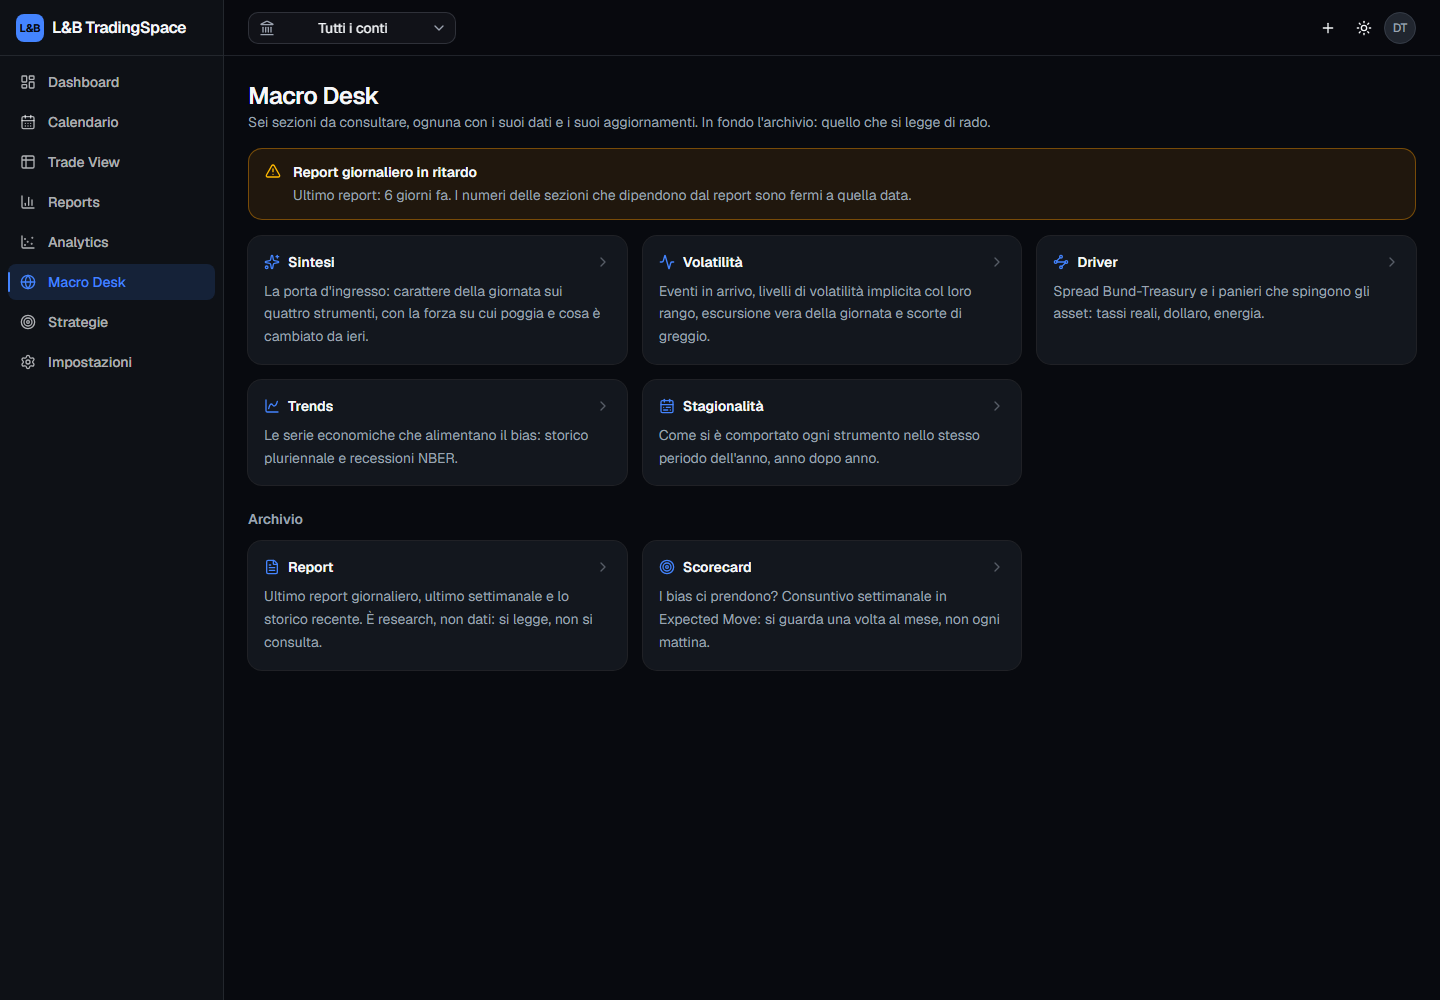
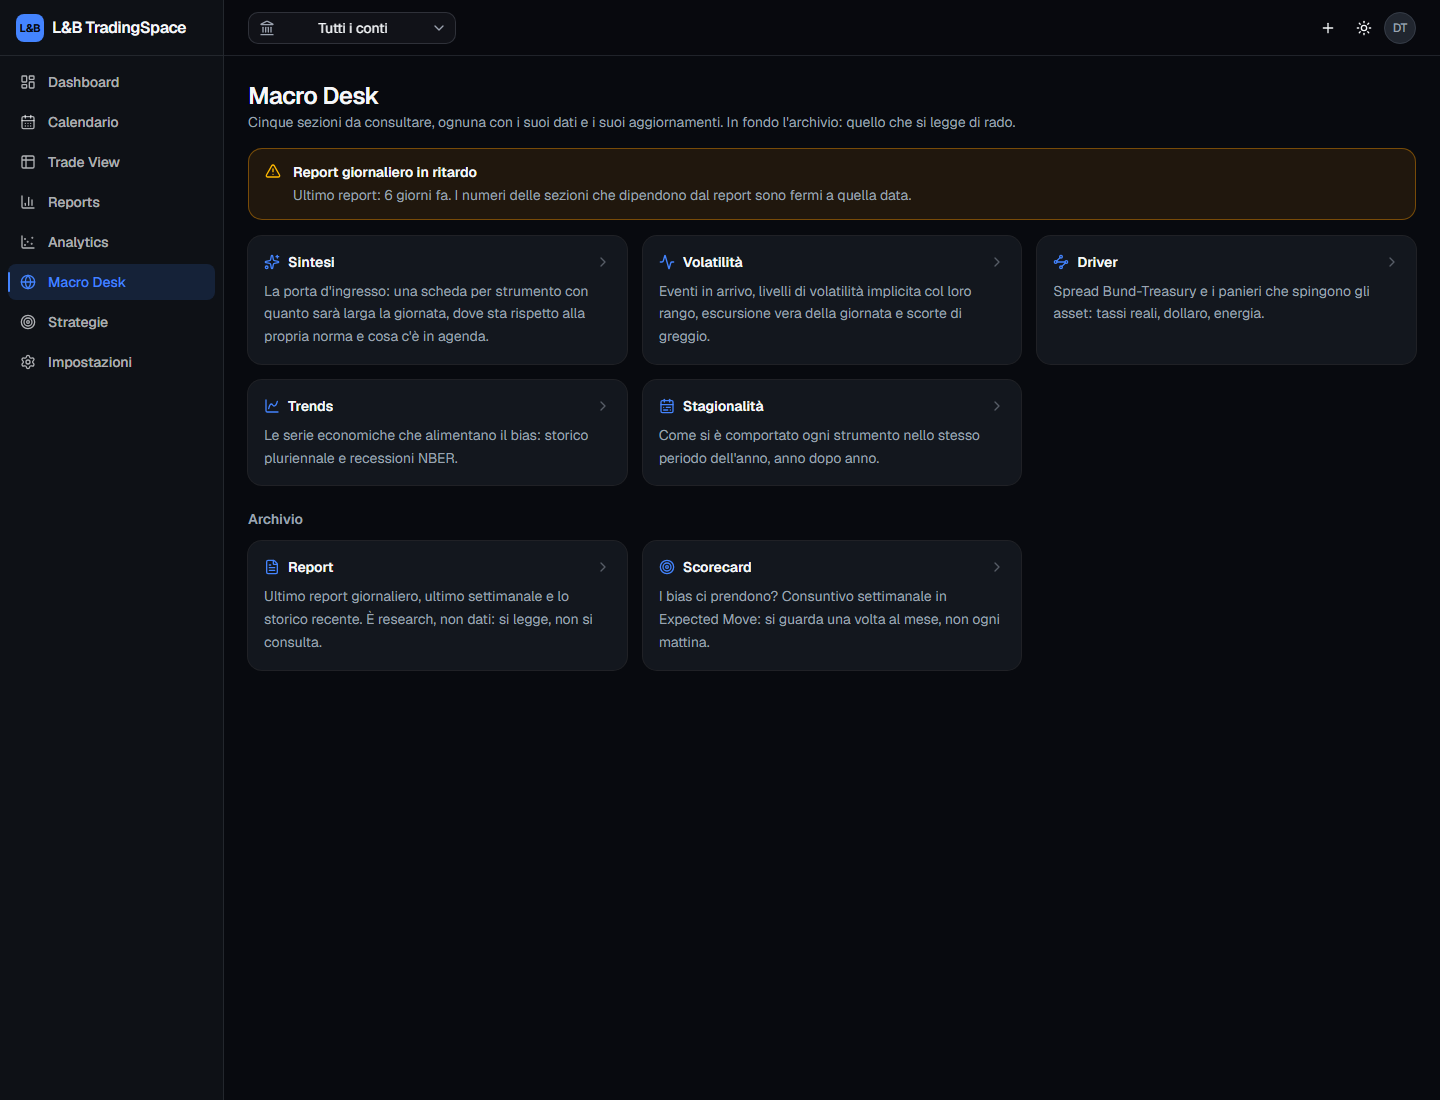
Chiusura: indice a cinque sezioni, riferimenti allineati, PROGRESS
Terzo e ultimo blocco. Nessuna logica nuova: si allinea quello che la
rimozione di Posizionamento ha lasciato indietro.

INDICE E BARRA. `MACRO_DESK_SECTIONS` è fonte unica per entrambi, quindi la
tessera e la voce di navigazione erano già sparite col blocco precedente.
Restavano i CONTEGGI scritti a mano: il sottotitolo dell'indice diceva «Sei
sezioni da consultare» e i commenti parlavano di sei quotidiane. Ora cinque.

DESCRIZIONE DELLA SINTESI, riscritta perché era ferma a tre cose che non
esistono più: «carattere della giornata», «la forza su cui poggia» e «cosa è
cambiato da ieri» erano le colonne della tabella unica, sostituite dalle
schede il 26/08. Adesso dice quello che la pagina fa davvero.

DUE COMMENTI CHE SAREBBERO INVECCHIATI IN SILENZIO:
- la soglia dei 720px della barra era motivata da «Posizionamento, che è
  l'etichetta più lunga». Non c'è più: la più lunga rimasta è «Stagionalità»,
  e la soglia resta giusta per quella;
- la griglia a tre colonne era commentata come «due righe piene, e la voce
  d'archivio da sola sulla terza» — un segnale visivo che con cinque
  quotidiane non c'è più. Il commento adesso lo dice, e dice anche che a
  distinguere la pagina corrente resta la pillola piena con `aria-current`,
  che è il segnale vero e non dipende da quante sezioni ci siano.
- il commento di `report-detail.tsx` elencava «Volatilità, Posizionamento e
  Driver» fra le sezioni di primo livello.
[…]

diff --git a/src/components/macro-desk/section-nav.tsx b/src/components/macro-desk/section-nav.tsx
@@ -21,8 +21,13 @@ import { Button } from "@/components/ui/button";
  * quotidiane le faceva sembrare della stessa frequenza, ed è un'informazione
  * falsa sulla loro utilità.
  *
- * Ora: SEI sezioni di consultazione quotidiana, e un ARCHIVIO con le altre
- * due. La barra mostra le sei; se la sezione corrente è d'archivio compare
+ * Il 27/08/2026 è uscita anche Posizionamento: i dati COT erano corretti, le
+ * interpretazioni del pannello no (v. `docs/macro-desk/VERDETTO-POSIZIONAMENTO.md`).
+ * La tabella e il cron restano, e di quel dato sopravvive una riga nelle
+ * schede della Sintesi.
+ *
+ * Ora: CINQUE sezioni di consultazione quotidiana, e un ARCHIVIO con le altre
+ * due. La barra mostra le cinque; se la sezione corrente è d'archivio compare
  * anche quella, così non si resta mai senza sapere dove si è.
  *
  * Unica fonte di verità: la griglia dell'indice (`/macro-desk`) e la barra di
@@ -38,6 +43,7 @@ export interface MacroDeskSection {
   /** `archivio` = si consulta di rado, fuori dalla barra quotidiana. */
   gruppo: "quotidiano" | "archivio";
 }
+
 export const MACRO_DESK_SECTIONS = [
   {
     key: "ai-analyst",
@@ -45,7 +51,7 @@ export const MACRO_DESK_SECTIONS = [
     label: "Sintesi",
     icon: Sparkles,
     description:
-      "La porta d'ingresso: carattere della giornata sui quattro strumenti, con la forza su cui poggia e cosa è cambiato da ieri.",
+      "La porta d'ingresso: una scheda per strumento con quanto sarà larga la giornata, dove sta rispetto alla propria norma e cosa c'è in agenda.",
     gruppo: "quotidiano",
   },
   {
@@ -103,7 +109,8 @@ export const MACRO_DESK_SECTIONS = [
     gruppo: "archivio",
   },
 ] as const satisfies readonly MacroDeskSection[];
-/** Le sei di consultazione quotidiana, nell'ordine in cui si usano. */
+
+/** Le cinque di consultazione quotidiana, nell'ordine in cui si usano. */
 export const SEZIONI_QUOTIDIANE = MACRO_DESK_SECTIONS.filter(
   (s) => s.gruppo === "quotidiano",
 );
@@ -112,23 +119,29 @@ export const SEZIONI_ARCHIVIO = MACRO_DESK_SECTIONS.filter(
   (s) => s.gruppo === "archivio",
 );
 export type MacroDeskSectionKey = (typeof MACRO_DESK_SECTIONS)[number]["key"];
+
 /**
  * Barra di salto fra sezioni, in alto a destra nelle PAGINE DI SEZIONE.
  *
  * Da 720px in su è una GRIGLIA FISSA a tre colonne, non un wrap naturale: tre
- * pillole per riga sempre, qualunque sia la larghezza. Con sei sezioni
- * quotidiane sono due righe piene; con una settima d'archivio la terza riga ha
- * una voce sola, che è esattamente il segnale visivo giusto — quella pagina
- * non appartiene al gruppo. Il wrap naturale mandava a capo
- * un numero variabile di voci e lasciava "Report" orfano in fondo a sinistra.
- * Le quattro colonne sono `1fr` dentro un contenitore `w-fit`, quindi larghe
+ * pillole per riga sempre, qualunque sia la larghezza. Il wrap naturale mandava
+ * a capo un numero variabile di voci e lasciava "Report" orfano in fondo a
+ * sinistra. Le colonne sono `1fr` dentro un contenitore `w-fit`, quindi larghe
  * quanto la pillola più larga: il blocco resta uniforme e allineato a destra.
  *
+ * Dal 27/08/2026 le quotidiane sono CINQUE, quindi tre più due; su una pagina
+ * d'archivio diventano sei, cioè due righe piene. Finché erano sei, la voce
+ * d'archivio finiva da sola sulla terza riga ed era un segnale visivo in più:
+ * quel segnale non c'è più, e a distinguere la pagina corrente resta la
+ * pillola piena con `aria-current`, che è il segnale vero e non dipende da
+ * quante sezioni ci sono.
+ *
  * Sotto 720px il comportamento resta quello di prima — una riga sola che scorre
- * in orizzontale — perché a quelle larghezze quattro colonne non ci starebbero
- * senza schiacciare "Posizionamento", che è l'etichetta più lunga. La soglia è
- * 720 e non `md` (768) perché a 768 esatti il viewport utile scende sotto la
- * soglia e la griglia non scattava proprio alla larghezza da verificare.
+ * in orizzontale — perché a quelle larghezze tre colonne non ci starebbero
+ * senza schiacciare "Stagionalità", che dal 27/08/2026 è l'etichetta più lunga
+ * rimasta (prima lo era "Posizionamento"). La soglia è 720 e non `md` (768)
+ * perché a 768 esatti il viewport utile scende sotto la soglia e la griglia non
+ * scattava proprio alla larghezza da verificare.
  *
  * In nessuno dei due casi un'etichetta viene troncata (le pillole sono
  * `whitespace-nowrap`) né la fila sborda dalla pagina, perché il contenitore è
@@ -140,9 +153,9 @@ export function MacroDeskSectionNav({
   /** Sezione corrente: resa come pillola piena e marcata `aria-current`. */
   active: MacroDeskSectionKey;
 }) {
-  /* Le sei quotidiane, più quella corrente se è d'archivio: dalla Scorecard si
-     deve poter tornare indietro, e soprattutto si deve vedere di essere in una
-     pagina che non è fra le sei. */
+  /* Le cinque quotidiane, più quella corrente se è d'archivio: dalla Scorecard
+     si deve poter tornare indietro, e soprattutto si deve vedere di essere in
+     una pagina che non è fra le cinque. */
   const corrente = MACRO_DESK_SECTIONS.find((s) => s.key === active);
   const voci =
     corrente && corrente.gruppo === "archivio"
@@ -166,8 +179,8 @@ export function MacroDeskSectionNav({
                 asChild
                 size="sm"
                 variant={isActive ? "secondary" : "outline"}
-                /* In griglia la pillola riempie la sua cella: quattro colonne
-                   uguali invece di quattro larghezze diverse. */
+                /* In griglia la pillola riempie la sua cella: colonne uguali
+                   invece di larghezze diverse. */
                 className="min-[720px]:w-full"
               >
                 <Link

diff --git a/src/app/(app)/macro-desk/page.tsx b/src/app/(app)/macro-desk/page.tsx
@@ -15,13 +15,15 @@ import {
 export const metadata: Metadata = { title: "Macro Desk" };
 
 /**
- * Indice del Macro Desk: le sei sezioni quotidiane, poi l'archivio.
+ * Indice del Macro Desk: le cinque sezioni quotidiane, poi l'archivio.
  *
  * Fino al 26/08/2026 erano otto schede identiche, tutte di pari peso. Ma la
  * Scorecard si guarda una volta al mese e la Volatilità ogni mattina: un
  * indice che non distingue le frequenze costringe chi legge a ricordarsele, e
  * dà alle due pagine di consultazione rara la stessa aria di urgenza delle
- * altre.
+ * altre. Il 27/08/2026 è uscita Posizionamento e le quotidiane sono passate
+ * da sei a cinque: il conteggio a schermo viene dall'elenco, non da un numero
+ * scritto a mano, ma la frase di apertura sì ed è stata aggiornata con esso.
  *
  * Qui non si legge nessun dato di mercato: l'unica lettura è la DATA
  * dell'ultimo report giornaliero, che serve alla banda di allarme quando il
@@ -38,7 +40,7 @@ export default async function MacroDeskPage() {
       <div>
         <h1 className="page-title">Macro Desk</h1>
         <p className="page-subtitle">
-          Sei sezioni da consultare, ognuna con i suoi dati e i suoi
+          Cinque sezioni da consultare, ognuna con i suoi dati e i suoi
           aggiornamenti. In fondo l&apos;archivio: quello che si legge di rado.
         </p>
       </div>

diff --git a/src/components/macro-desk/report-detail.tsx b/src/components/macro-desk/report-detail.tsx
@@ -16,11 +16,13 @@ import {
  * Shell client del dettaglio report: navigazione a schede sul payload.
  * Il data-loading resta nella pagina server; qui solo stato del tab attivo.
  *
- * Volatilità, Posizionamento e Driver NON sono più schede: sono tre sezioni di
- * primo livello del Macro Desk, con fonti e job propri. Il payload del report
- * può continuare a contenere `volPanel` — semplicemente non lo si rende più
- * qui, tranne il commento del giorno sulla struttura vol, che è testo scritto
- * da QUESTO report e vive ora in Panoramica.
+ * Volatilità e Driver NON sono più schede: sono sezioni di primo livello del
+ * Macro Desk, con fonti e job propri. Lo era anche Posizionamento, rimossa il
+ * 27/08/2026 — i dati COT restano e se ne legge una riga nelle schede della
+ * Sintesi (v. `docs/macro-desk/VERDETTO-POSIZIONAMENTO.md`). Il payload del
+ * report può continuare a contenere `volPanel`: semplicemente non lo si rende
+ * più qui, tranne il commento del giorno sulla struttura vol, che è testo
+ * scritto da QUESTO report e vive ora in Panoramica.
  */
 
 const TABS = [

diff --git a/PROGRESS.md b/PROGRESS.md
@@ -1850,3 +1850,59 @@ il 10° percentile di `mm_net` è positivo su entrambi gli strumenti).
 verifica visiva con l'harness CDP su build di produzione, dati veri, tema
 chiaro e scuro a 1440 e 375 px su Sintesi, Volatilità, Driver (anche 1920) e
 Stagionalità. Screenshot in `docs/macro-cinque/`.
+
+
+## ✅ «Tre chiusure: il Macro Desk è finito» (27/08/2026)
+
+Stesso ramo `macro/cinque-interventi`, tre blocchi pubblicati uno alla volta.
+Chiudono il lavoro sul Macro Desk: le sezioni scendono da sei a **cinque**
+quotidiane più due d'archivio.
+
+**1 — Via il discorsivo dell'AI Analyst** (`46191f2`). Sotto le schede per
+strumento restava un blocco di prosa che apriva con «Condizioni di espansione»
+— il carattere atteso che le tabelle avevano già sostituito con dei numeri —
+e raccontava a parole gli stessi valori delle schede.
+
+*Verifica fatta prima di cancellare*: dei suoi undici fattori, F1/F2/F4/F6 sono
+righe delle schede; F7, F8 e F9 stanno nella Stagionalità (che dal 27/08 ha
+anche il riepilogo «Dove siamo adesso»); F10 è il blocco «Stabilità delle
+relazioni» del Driver Desk; F11 e F12 sono due serie di Trends. L'unico senza
+altra casa era F5, la «partecipazione» del COT — oggetto del blocco 2.
+
+Con il testo è sparito tutto l'apparato che lo produceva: dossier a dodici
+fattori, mapper delle letture, template delle frasi, orchestratore col modello
+linguistico, client Gemini, prompt e i due cancelli sul linguaggio, più cinque
+script di anteprima. Tre conseguenze dichiarate: `caricaFontiCondivise`
+caricava Driver Desk, copertura della Stagionalità, cinque serie di Trends e
+la data del report senza più un lettore — **otto query in meno per apertura**;
+la banda «Report giornaliero in ritardo» è uscita dalla Sintesi perché nessuna
+riga di quella pagina viene più dal report; quattro campi dell'anagrafica
+strumenti e tre funzioni sono caduti con i fattori che li usavano.
+**−49 file, −6.409 righe nette di codice, 289 test in meno.**
+
+**2 — Via la sezione Posizionamento** (`5600c7f`). I dati erano corretti, le
+interpretazioni no. I tre numeri, registrati in `docs/DEBITO-TECNICO.md`:
+l'open interest in contratti misura il prezzo (oro al **5,2° percentile in
+contratti** e al **massimo assoluto in nozionale**, 176 mld $ contro 49 nel
+2017 quando i contratti erano di più); il legame «mercato sottile → oscillazioni
+più ampie» **non è monotono** su nessuno dei due strumenti (sul WTI il massimo
+sta nel quintile mediano); «MOLTO BASSO» **non implica netto corto** — il 10°
+percentile di `mm_net` è +15.253 sull'oro e +78.341 sul WTI.
+
+`CotWeek`, `cot-sync` e il cron **non sono stati toccati**: sparisce la pagina,
+non i dati. La riga della Sintesi è stata corretta — mostrava «141.648
+contratti» per un saldo netto, ora è «+141.648 contratti netti» col segno
+sempre esplicito, e tre test le vietano per nome «scommesse lunghe»,
+«posizioni lunghe», «lato corto» e «da liquidare». `cot-metrics.ts` resta
+INTATTO con il suo test di regressione: è la traduzione 1:1 del generatore
+pre-registrato, e sfoltirlo sarebbe la «miglioria» che la pre-registrazione
+dichiara essere un bug.
+
+**3 — Chiusura.** Indice e barra aggiornati (`MACRO_DESK_SECTIONS` è fonte
+unica per entrambi), descrizione della Sintesi riscritta perché citava ancora
+carattere, forza e «da ieri», commenti allineati al conteggio nuovo.
+
+**Verificato:** typecheck ✅ · eslint ✅ · **1687/1687 test** ✅ · build ✅ ·
+verifica CDP su build di produzione, tema chiaro e scuro a 1440 e 375 px:
+`/macro-desk/posizionamento` risponde 404 pulito e su tutte e otto le pagine
+del desk non resta un solo collegamento verso la sezione.
